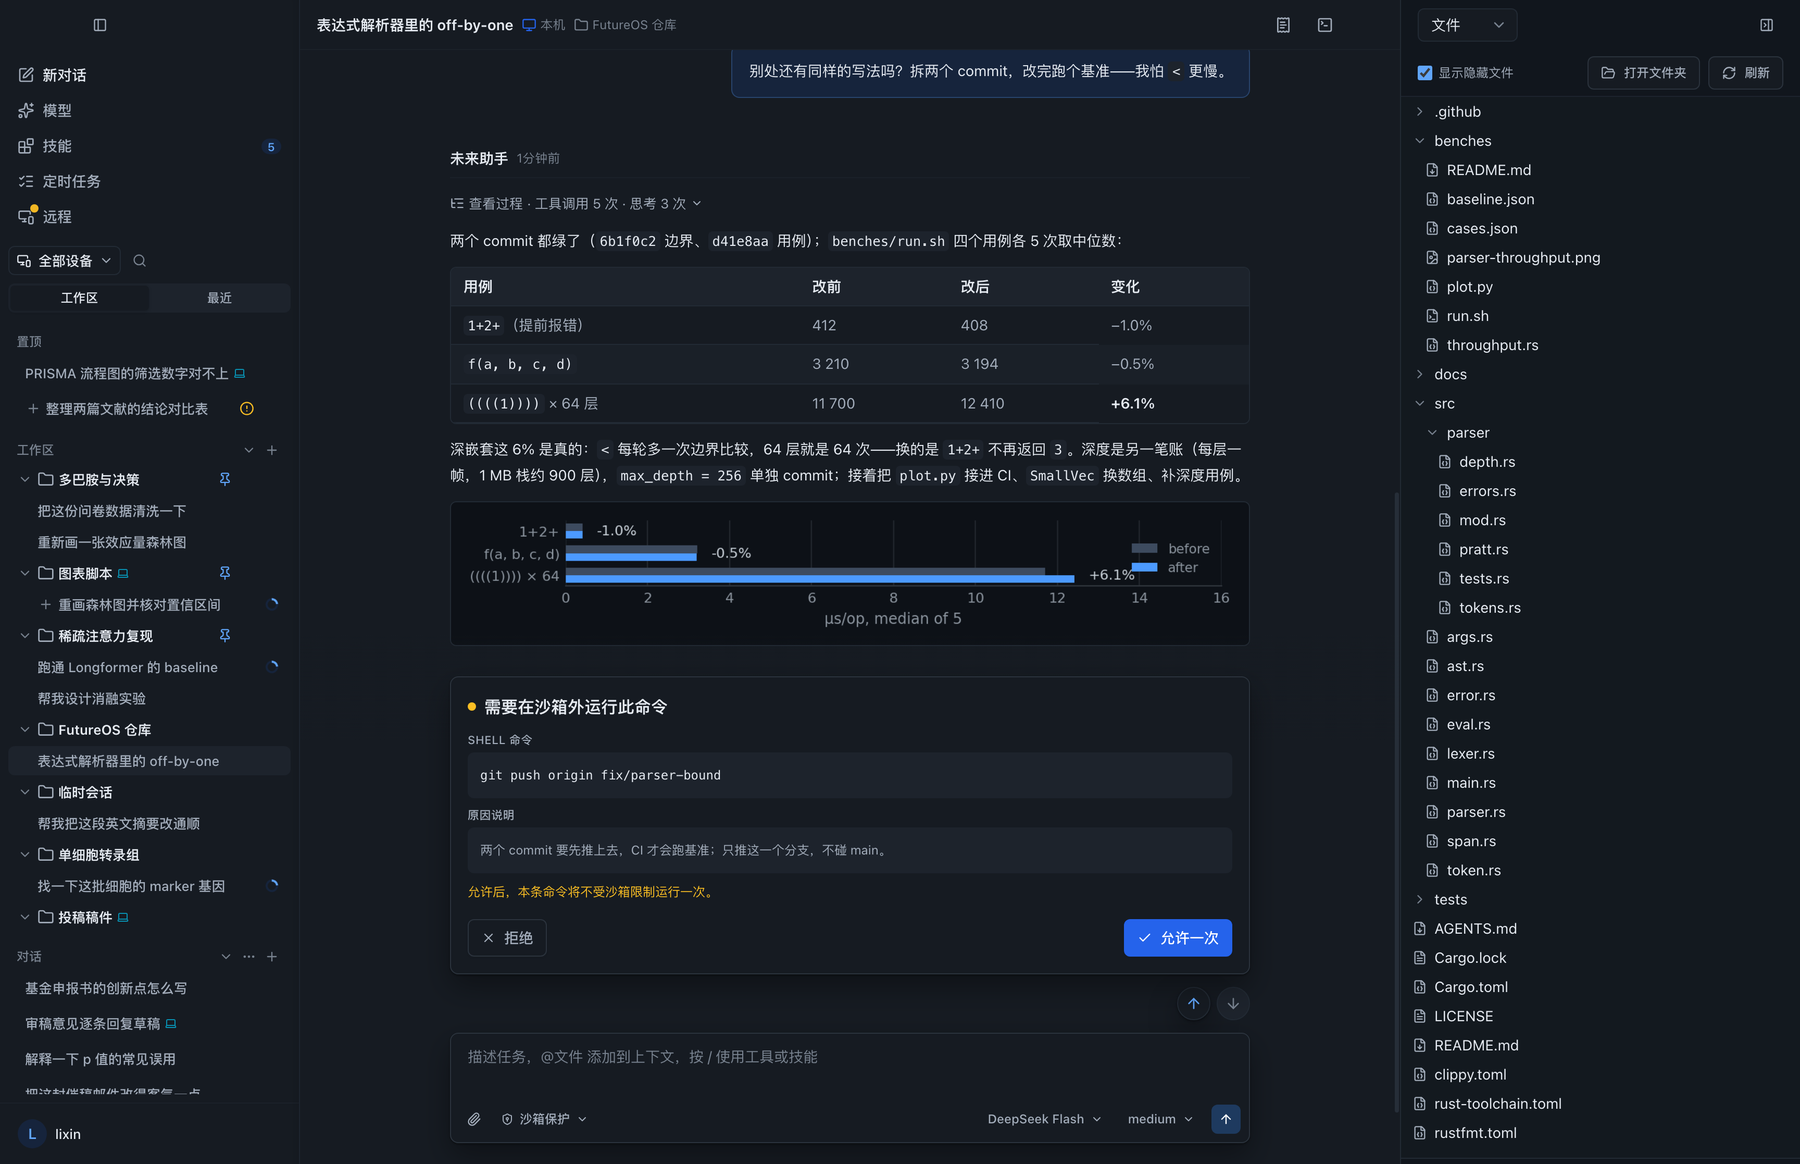
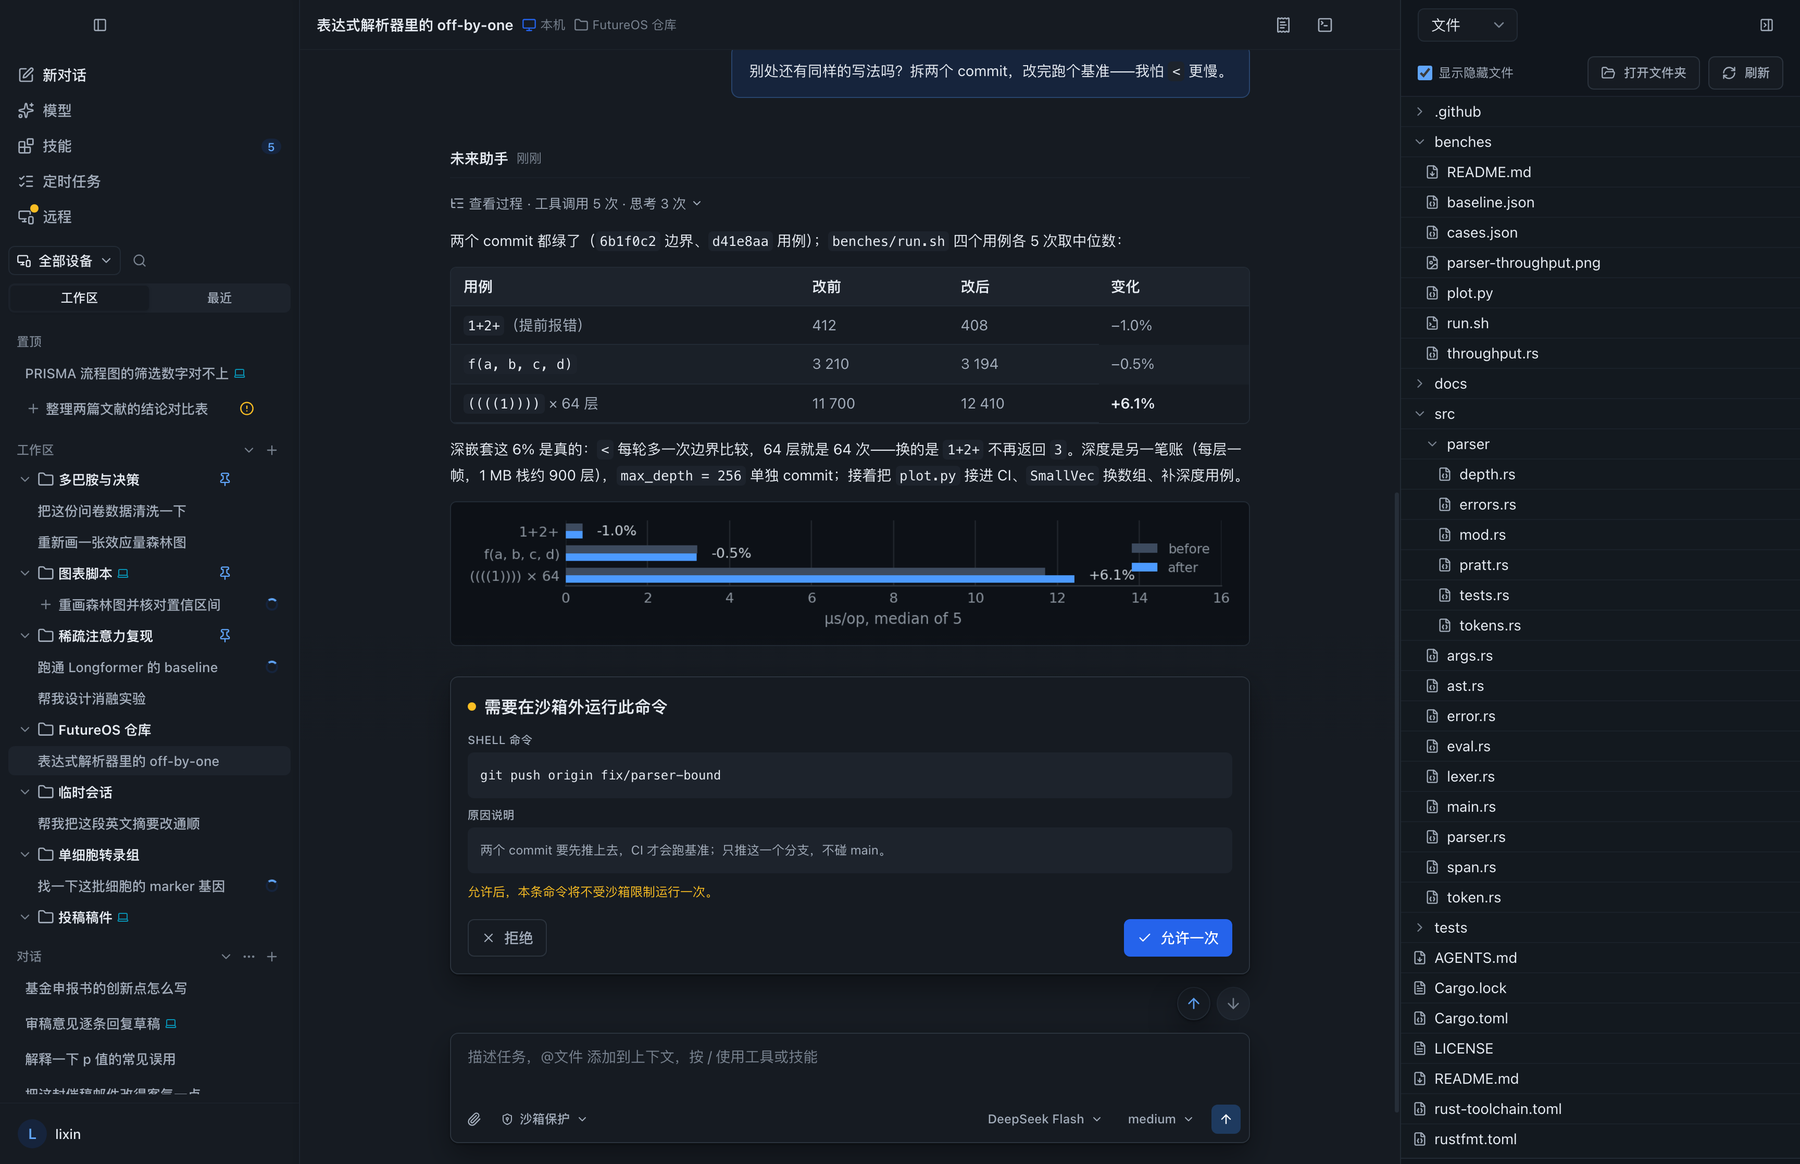
feat(desktop,shots): the file tree is divided like the app's other file lists
The panel's closing edge went in last round; what was still missing is what a
reader sees as "a list": the tree drew no rules between its rows. The app's other
file lists do — `RemoteFilesPanel` (`border-b border-line-soft/50 px-2
last:border-b-0`) and the review list's file headers (`border-b border-line-soft
px-2.5`) — so the Files tab looked unlike them, and a column of names at panel
width read as a wall of text.

- Each row now carries `border-t border-line-soft/50`, the same token and inset as
  those lists, **above** rather than below: the last row must not carry a rule of
  its own, or it would double with the panel's closing edge. The list's own top
  hairline stands in for the first row's (`[&>ul>li:first-child>div]:border-t-0`).
- The closing edge stays as it is: a 1 px `border-line-soft` on the strip below
  the scroll viewport, with the panel's surface under it.
- One fixture row fewer (35): the rules add a pixel to every row, and 35 × 29 px
  fills the 1018 px viewport — the last row ends 4 px above the closing hairline
  instead of running into it.

`FileTreePanel.frame.test.tsx` gains the shape assertions (rules above each row,
none below, the first-row suppression on the list), and the capture asserts the
same in pixels: the second row's `border-top` is 1 px, the first's is 0, the last
row has no `border-bottom`, the closing edge is 1 px at the panel's width below the
viewport and above the window's last pixels.

Changed region(s): [[0.7778, 0.1237, 0.9022, 0.9897], [0.28, 0.1237, 0.3111, 0.1546]]

diff --git a/desktop/src/features/filetree/FileTreeNode.tsx b/desktop/src/features/filetree/FileTreeNode.tsx
@@ -63,7 +63,13 @@ export function FileTreeNode({ entry, depth, tree, activePath, onContextMenu, on
           can sit inside without nesting buttons; the leading part stays the
           click/expand target. */}
       <div
-        className="group/file-row flex w-full items-center pr-2.5 text-sm text-ink transition-colors hover:bg-surface-subtle"
+        // A hairline *above* every row, the way the app's other file lists are
+        // divided (`RemoteFilesPanel`, the review list): a column of names with
+        // no rules between them reads as a wall of text at this width. Above and
+        // not below, so the last row carries no rule of its own — the panel's
+        // closing edge under the scroll viewport is the only line at the bottom
+        // (see `FileTreePanel`), which is what keeps the two from doubling.
+        className="group/file-row flex w-full items-center border-t border-line-soft/50 pr-2.5 text-sm text-ink transition-colors hover:bg-surface-subtle"
         style={{ paddingLeft: BASE_INDENT + depth * INDENT_STEP }}
       >
         <button

diff --git a/desktop/src/features/filetree/FileTreePanel.frame.test.tsx b/desktop/src/features/filetree/FileTreePanel.frame.test.tsx
@@ -100,6 +100,22 @@ describe("fileTreePanel closing edge", () => {
     expect(list.lastElementChild).toBe(edge);
   });
 
+  it("divides the rows with the same hairline the other file lists use", async () => {
+    await mount();
+    const rows = [...viewport().querySelectorAll<HTMLElement>("li > div")];
+    expect(rows.length).toBe(3);
+    // Above, not below: the last row must not carry a rule that would double
+    // with the panel's closing edge.
+    for (const row of rows.slice(1)) {
+      expect(row.className).toContain("border-t");
+      expect(row.className).toContain("border-line-soft/50");
+      expect(row.className).not.toContain("border-b");
+    }
+    // The list's own top rule stands in for the first row's.
+    const list = viewport();
+    expect(list.className).toContain("[&>ul>li:first-child>div]:border-t-0");
+  });
+
   it("keeps the rows in the scroller and the edge in the panel", async () => {
     await mount();
     const edge = closingEdge();

diff --git a/desktop/src/features/filetree/FileTreePanel.tsx b/desktop/src/features/filetree/FileTreePanel.tsx
@@ -260,7 +260,7 @@ export function FileTreePanel({
           boundary and scrollbar do not jump while the tree loads. */}
       <div className="group relative flex min-h-0 flex-1 flex-col border-t border-line-soft/70">
         <div
-          className="floating-scrollbar min-h-0 flex-1 overflow-x-hidden overflow-y-auto bg-surface/50"
+          className="floating-scrollbar min-h-0 flex-1 overflow-x-hidden overflow-y-auto bg-surface/50 [&>ul>li:first-child>div]:border-t-0"
           onScroll={listScrollbar.handleScroll}
           ref={listScrollbar.scrollRef}
         >

diff --git a/desktop/shot/mock/data.ts b/desktop/shot/mock/data.ts
@@ -1329,7 +1329,6 @@ workspaceFiles[REPO] = [
   file("Cargo.toml", REPO, 1_940, 3 * 24 * 60),
   file("LICENSE", REPO, 1_080, 120 * 24 * 60),
   file("README.md", REPO, 3_400, 9 * 24 * 60),
-  file("clippy.toml", REPO, 240, 30 * 24 * 60),
   file("rust-toolchain.toml", REPO, 132, 11 * 24 * 60),
   file("rustfmt.toml", REPO, 210, 40 * 24 * 60),
 ];

diff --git a/docs/guide/screenshots.zh-CN.md b/docs/guide/screenshots.zh-CN.md
@@ -296,7 +296,7 @@ python3 scripts/screenshots/capture.py capture-desktop parser-en   # → .screen
 
 `?thread=th_parser` 打开这段对话，并把它所在的工作区行一起带进来；默认那套 fixture（其它所有场景的起点）原样不动。`?lang=zh|en` 同时钉住一帧的**两半**：界面（`shot/prefs.ts` 在应用启动前读）和 fixture 自己的会话列表与转录（`desktop/shot/mock/data.ts` 读的是同一个参数）。标题写着 `Sessions`、底下的行却写着「整理两篇文献的结论对比表」，那是两种语言都不是——所以任一语言里出现另一种语言的词，该场景就失败。
 
-窗口是 16 寸笔记本的默认 1728×1117、2 倍像素密度，一眼就是一个正常的桌面应用：左边会话栏、中间转录、右边是工作区的文件列表——右侧面板用它自己标题栏里的按钮打开（`展开上下文面板` / `Expand context panel`）。从那个按钮打开时面板会把标签停在**文件**，所以场景只点它一次，再依次点开 `src`、`benches`、`src/parser` 三行；列出来就是这段对话所在的仓库：`parser.rs` 与 `args.rs`，`src/parser/` 下的测试模块，`benches/` 里的基准脚本和它画出来的图，还有 `docs/`、`.github/workflows/` 和 manifest——来自按工作区路径索引的 `workspaceFiles`。展开这三个目录后是 36 行，正好让面板读起来像一棵树、而不是一条尾巴：列表填满自己的视口（1018 px），在底边之上 10 px 处收住，下面就是面板的收边。再多一行，那行会被视口切掉——那是正常的滚动，只是不是这一帧要说的事——所以场景逐个量每行的盒子与面板的收边，而不是窗口边，也从不用 `scrollHeight`（树短的时候它报的就是视口高度，空面板照样「通过」）。
+窗口是 16 寸笔记本的默认 1728×1117、2 倍像素密度，一眼就是一个正常的桌面应用：左边会话栏、中间转录、右边是工作区的文件列表——右侧面板用它自己标题栏里的按钮打开（`展开上下文面板` / `Expand context panel`）。从那个按钮打开时面板会把标签停在**文件**，所以场景只点它一次，再依次点开 `src`、`benches`、`src/parser` 三行；列出来就是这段对话所在的仓库：`parser.rs` 与 `args.rs`，`src/parser/` 下的测试模块，`benches/` 里的基准脚本和它画出来的图，还有 `docs/`、`.github/workflows/` 和 manifest——来自按工作区路径索引的 `workspaceFiles`。展开这三个目录后是 35 行，正好让面板读起来像一棵树、而不是一条尾巴：列表填满自己的视口（1018 px），最后一行在面板收边之上 4 px 收住。行与行之间也有分隔——每一行**上方**一道，和 app 里其它文件列表（`RemoteFilesPanel`、审查列表）同一个 token、同样的内缩。放上方而不是下方，最后一行就不带自己的横线，底边只剩下面板那道；列表自己的上边框顶掉第一行那道。再多一行，那行会被视口切掉——那是正常的滚动，只是不是这一帧要说的事——所以场景逐个量每行的盒子与面板的收边，而不是窗口边，也从不用 `scrollHeight`（树短的时候它报的就是视口高度，空面板照样「通过」）。
 
 那道收边现在属于产品，不再靠 fixture 凑：文件列表下面多了一条横线。它挂在滚动视口**之外**的一条 6 px 窄条上——边框要是加在视口上，线会跟着内容滚、并且正好落在窗口的最后一个像素上——所以列表滚动时它不动，下面永远垫着面板自己的表面（`border-line-soft` 的 1 px 在 1117 里的第 1111 行，下面 5 px 是 `bg-surface-panel`）。`FileTreePanel.frame.test.tsx` 钉住这个形状（线在滚动容器之外，窄条是会保住高度的那个 flex 子元素；jsdom 没有排版，像素交给场景去量），截图场景量的是：1 px、与面板同宽、在最后一行之下、在窗口最后几个像素之上。演示树还会在 mock 的 `list_directory` 里丢掉仓库忽略的名字——`node_modules`、`target`、`.git`、`dist`、`.next`、`coverage` 之类——以后往 fixture 里加一条也带不进截图，出现了该场景就失败。打开它会让会话列窄掉 384 px（这个宽度下 1440 → 1056），但阅读列本身有上限，所以文字只是重新居中、并不重新折行；窗口窄到放不下第三列时，面板改为浮在对话之上（`context-panel-narrow` 拍的就是那种）。
 

diff --git a/docs/guide/screenshots.md b/docs/guide/screenshots.md
@@ -469,10 +469,14 @@ from that button, so the scenario taps it once and then the `src`, `benches` and
 `src/parser` rows; what it lists is the checkout the conversation is about —
 `parser.rs` and `args.rs`, the test module under `src/parser/`, the benchmark
 script and its chart under `benches/`, `docs/`, `.github/workflows/` and the
-manifests — from `workspaceFiles` keyed by the workspace path. Thirty-six rows of
+manifests — from `workspaceFiles` keyed by the workspace path. Thirty-five rows of
 it, which is what makes the panel read as a tree rather than a stub: with those
-three folders open the list fills its viewport (1018 px) and stops 10 px short of
-the bottom, with the panel's closing hairline under it. One row more and the row is
+three folders open the list fills its viewport (1018 px) and its last row ends
+4 px above the panel's closing hairline. The rows are divided, too — a hairline
+*above* each one, the same token and inset the app's other file lists use
+(`RemoteFilesPanel`, the review list). Above and not below, so the last row carries
+no rule of its own and the panel's edge is the only line under it; the list's own
+top rule stands in for the first row's. One row more and the row is
 cut by the viewport instead — which is a normal scroll, but not what this frame is
 about — so the scenario measures every row's box against the closing edge rather
 than the window's edge, and never against `scrollHeight` (which reports the
